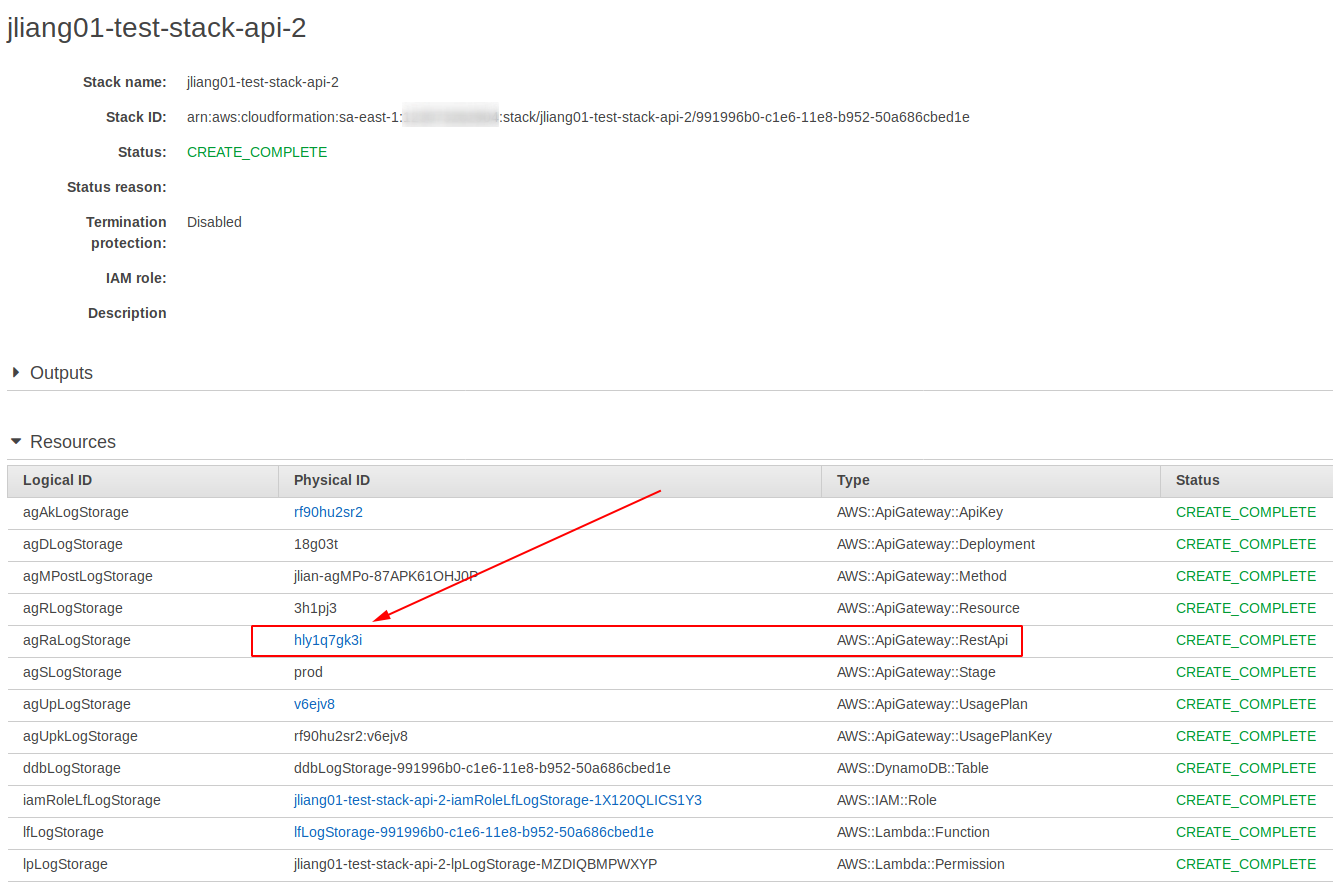
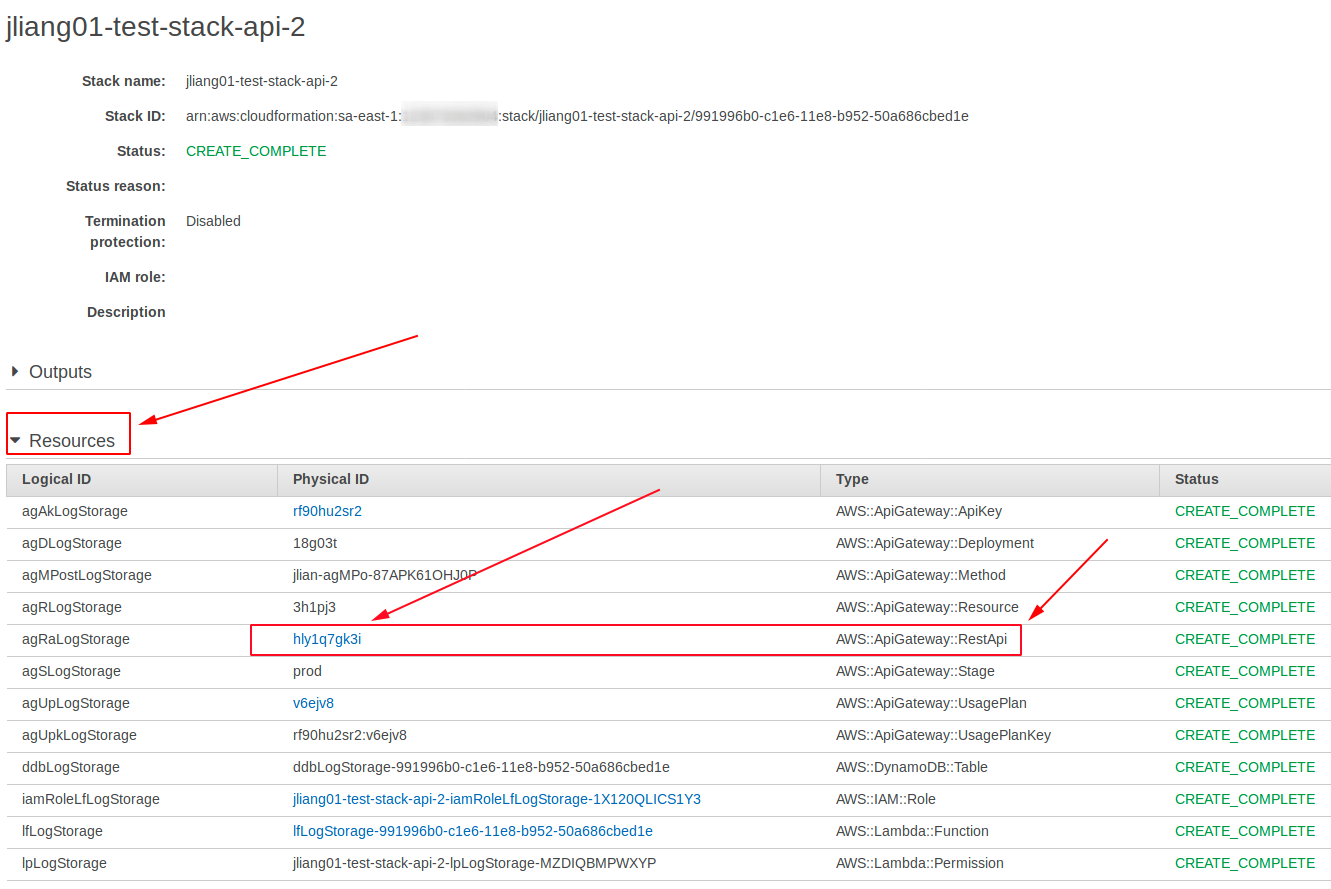
Update README and Fix QA issues

diff --git a/README.md b/README.md
@@ -10,15 +10,15 @@ Last Updated on 2018-09-28
 
 | Variable Name | Type | Description |
 | ------ | ------ | ------ |
-| ApiGatewayResource | Text | API Gateway resource name. Additional section will be added to the API Gateway url, reflect on the ***{resource}*** part. Example: https://{api}.execute-api.{region}.amazonaws.com/{stage}/**{resource}**/. Default to ***log***|
-| ApiGatewayStage | Text | API Gateway stage name. Additional section will be added to the API Gateway url, reflect on the ***{stage}*** part. Example: https://{api}.execute-api.{region}.amazonaws.com/**{stage}**/{resource}/. Default to ***dev***|
+| ApiGatewayResource | Text | API Gateway resource name. It's an additional section added to the API Gateway url. See the ***{resource}*** part of the example. Example: https://{api}.execute-api.{region}.amazonaws.com/{stage}/**{resource}**/. Default to ***log***|
+| ApiGatewayStage | Text | API Gateway stage name. It's an additional section added to the API Gateway url. See the  ***{stage}*** part of the example. Example: https://{api}.execute-api.{region}.amazonaws.com/**{stage}**/{resource}/. Default to ***dev***|
 ### Prepare the deployment package
-Here it provides two ways:
+Either of the following two methods can be used to prepare the deployment package:
 1. Download the latest version of the complete deployment package file: ***aws-lambda-logstorage.zip*** from the project [release page](./releases)
-2. Or Build it yourself by cloning this project from GitHub and building the deployment package with a simple bash command.
+2. Build it yourself by cloning this project from GitHub and building the deployment package with a simple bash command.
 
 #### Build the deployment package yourself
-To build the deployment package yourself, clone this project into the fortigate-autoscale folder in your current local directory, and enter the project directory. By the following bash commands:
+To build the deployment package yourself, clone this project into the fortigate-autoscale folder in your current local directory, enter the project directory, and execute the following bash commands:
 ```sh
 git clone https://github.com/fortinet/aws-lambda-logstorage.git aws-lambda-logstorage
 cd aws-lambda-logstorage
@@ -30,16 +30,17 @@ The file structure is:
 ![Build Artifact File Structure](/images/build_artifact_file_structure.png)
 
 ### Create an S3 Bucket for Deployment Intermediate
-This S3 bucket is created for deployment use, can be deleted once the deployment is completed.
+You need to create an S3 bucket in an AWS Region where you want to deploy this project to.
+This S3 bucket is created for deployment use and can be deleted once the deployment is completed.
 
 ## Setup Deployment Environment
-You need to install the AWS CLI. After, set your AWS working region, set the BUCKET and STACK environment variables for the current Bash CLI session.
+In order to setup the deployment environment, you need to install the AWS CLI, set your AWS working region, and set the BUCKET and STACK environment variables for the current Bash CLI session.
 
-### Install AWS CLI
-Please see [install the AWS Command Line Interface](https://docs.aws.amazon.com/cli/latest/userguide/installing.html) for instructions.
+### Install & Configure AWS CLI
+Please see [install the AWS Command Line Interface](https://docs.aws.amazon.com/cli/latest/userguide/installing.html) and [Configuring the AWS CLI - Quick Configuration](https://docs.aws.amazon.com/cli/latest/userguide/cli-chap-getting-started.html#cli-quick-configuration) for instructions.
 
 ### Setup Environment Variables
-Set the AWS working region and the Fortigate Autoscale will be deployed to this region. For information about AWS Regions, please see [AWS Regions and Endpoints](https://docs.aws.amazon.com/general/latest/gr/rande.html). The bash shell command to use is (Note: square brackets must be omitted.):
+Set the AWS working region and the FortiGate Autoscale will be deployed to this region. For information about AWS Regions, please see [AWS Regions and Endpoints](https://docs.aws.amazon.com/general/latest/gr/rande.html). The bash shell command to use is (Note: square brackets must be omitted.):
 ```sh
 aws configure set region [REPLACE_WITH_YOUR_PREFERRED_REGION]
 ```
@@ -52,11 +53,11 @@ export BUCKET=[REPLACE_WITH_YOUR_PREFERRED_BUCKET_NAME]
 ```
 
 ### Override Template Parameters
-If you want to define your ***ApiGatewayResource*** and ***ApiGatewayStage*** parameters for the deployment, create a file with name ***logstorage_params.txt***, put it along with the ***deploy_logstorage.sh*** file. Without ***logstorage_params.txt***, deployment will start with the parameters with their default value.
-A sample file ***sample.logstorage_params.txt*** is given in the templates directory for your reference.
+If you want to define your ***ApiGatewayResource*** and ***ApiGatewayStage*** parameters for the deployment, create a file named ***logstorage_params.txt*** and place it along with the ***deploy_logstorage.sh*** file. Without the ***logstorage_params.txt***, deployment will start with the parameters having their default value.
+A sample file ***sample.logstorage_params.txt*** is provided in the templates directory for your reference.
 
 Note:
-1. No spaces should be next to “=” on either sides. If spaces exists in any ParameterValue, the whole ParameterValue should be wrapped with double-quote.
+1. No spaces should be next to “=” on either sides. If spaces exists in any ParameterValue, the entire ParameterValue should be wrapped within double-quotation marks.
 For example:
 ParameterKey=”This is just an example”
 
@@ -73,7 +74,7 @@ Start the deployment by executing this command:
 To verify the deployment result and see the details, you can find the stack from AWS CloudFormation console by the stack name you specified. Click into it to check the details.
 ![CloudFormation Stack 01](/images/verify_deployment01.png)
 
-Expand the ***Resource*** to find the APIGateway resource.
+Expand the Stack ***Resource*** section and find the resource of type ***AWS::ApiGateway::RestApi***. Click the link on its Physical ID section to navigate to the APIGateway and move on to the next step.
 ![CloudFormation Stack 02](/images/verify_deployment02.png)
 
 Find the invoke URL:
@@ -82,49 +83,65 @@ Find the invoke URL:
 Find the API Key, click on ***show*** to see it.
 ![Api Gateway Api key](/images/api_gateway_api_key)
 
-### Manual Deployment Instructions
+## Manual Deployment Instructions
 
 * [DynamoDB](#dynamodb)
 * [Lambda Function](#lambda-function)
 * [API Gateway](#api-gateway)
 * [FortiOS Configuration](#fortios-configuration)
 
-## DynamoDB
+### DynamoDB
 1. Choose _DynamoDB_ from AWS services.
 2. Create table.
     * Choose a recognizable table name. In this case, it could be `FosLog`. Take a note of this table name, we will use it later in Lambda function code.
-    * Note that _primary partition key_ and _primary sort key_ need to match the code in Lambda function. In this case, we will use:
-        * __Primary partition key__: `logId` (String)
-        * __Primary sort key__: `timestamp` (Number)
+    * Note that _primary partition key_ and _primary sort key_ need to match the code in Lambda function. In order to get the Primary sort key, need to check the **Add sort key** checkbox. In this case, we will use:
+        * __Primary partition key__: `logId` (must use a data type of: *String*)
+        * __Primary sort key__: `timestamp` (must use a data type of: *Number*)
+    *
     * Check _use default settings_ if the default quota works for you.
 
-## Lambda Function
+### Lambda Function
 1. Choose _Lambda_ from AWS services.
 2. Create function.
-    * Choose _Author from scrach_
+    * Choose _Author from scratch_
     * Name your Lambda function reasonably, like `fLogStorage`. Take a note of this function name, we will use it later in API Gateway configuration.
     * Use _Node.js 6.10_ as runtime.
-    * Select _create new role from template(s)_. You can select _Choose an existing role_ or _Create a custom role_ if that works for you.
+    * Select _create new role from template(s)_. You can select _Choose an existing role_ or _Create a custom role_ if that works for you. For _Create a custom role_:
         * Name the role according to its functionality, like `fLogStorageRole`.
         * Select `Simple Microservice permissions` in Policy templates.
-        * Replace default _index.js_ with the corresponding one in this repository.
-        * In Environment variables, input _TABLE_NAME_ -> `FosLog` (or your own table name).
+    * Click on *Create Function* button to create an empty function.
+    * A default *index.js* file was created. Replace its content with the content of index.js in this repository.
+    * In Environment variables, input a key-value pair: _TABLE_NAME_ as key and `FosLog` as value (or your own table name).
+    * Click on the *Save* button on the top right to complete.
 
-## API Gateway
+### API Gateway
 1. Choose _API Gateway_ from AWS services.
 2. Create API.
-    * Select _New API_. Input an API name like `FortiOS Log Storage`. For Endpoint type choice, please refer to [this post](https://aws.amazon.com/about-aws/whats-new/2017/11/amazon-api-gateway-supports-regional-api-endpoints/).
-    * Create a new resource, like `log`.
-    * Create a _POST_ method on the newly created resource. Select _Lambda Function_ as the Integration type. Then choose the _Lambda Function_ that was created in the previous step.
+    * Select _New API_. Input an API name like `FortiOS Log Storage` and save. For Endpoint type choice, please refer to [this post](https://aws.amazon.com/about-aws/whats-new/2017/11/amazon-api-gateway-supports-regional-api-endpoints/).
+    * From the actions dropdown menu, choose 'create resource', like `log`.
+    * select the created resource, then from the actions dropdown menu, choose 'create method' to create a _POST_ method on the newly created resource. Select _Lambda Function_ as the Integration type. Then type in the name of the Lambda function and select it from the autocomplete dropdown menu. Save it afterward.
     * In Method Request, set API Key Required to `true`.
-    * Deploy the created API.
+    * From the actions dropdown menu, choose 'Deploy API'.
+        * from the Deploy API popup window, on *Deployment stage*, choose [new stage], name the stage like: prod (for a production stage), dev (for a development stage), or test (for a testing stage). Click on 'Deploy' button. (see the screenshot below)
+        ![Api Gateway Api key](/images/deploy_api.png)
+    * From the APIs > Stages section, you can find the stage you just deployed. Expand it and click on the POST method under the resource `log` (or whatever resource name you gave it.). See the screenshot below.
+        ![Api Gateway Api key](/images/invoke_url.png)
     * Take a note of the invoke URL. It should look like: \<aws-api-id\>.execute-api.\<aws-region\>.amazonaws.com/\<aws-api-stage\>/\<aws-api-resource\>
-3. Create a new API Key.
+3. Create a new API Key from APIs > API Keys.
     * Choose _Auto Generate_.
     * Take a note of the _API Key_.
-4. Create a new Usage Plan.
-    * Associate the created API.
-    * Add the created API Key to the Usage Plan.
+    ![Api Gateway Api key](/images/create_api_key.png)
+4. Create a new Usage Plan from APIs > Usage plan. Then click next. The settings for Throttling and Quota are recommended as below:
+    * Throttling:
+        * Rate: 100 request per second
+        * Burst: 200 requests
+    * Quota: 10000 requests Monthly
+    * Associate the created API Stage. Choose the created api and corresponding stage. Click next.
+    * Add the created API Key to the Usage Plan. Click done.
+    * See the screenshots below
+    ![Api Gateway Api key](/images/add_usage_plan.png)
+    ![Api Gateway Api key](/images/add_usage_plan_api_stage.png)
+    ![Api Gateway Api key](/images/add_usage_plan_api_key.png)
 
 ## FortiOS Configuration
 1. In _Security Fabric_ -> _Settings_, enable _FortiGate Telemetry_.
